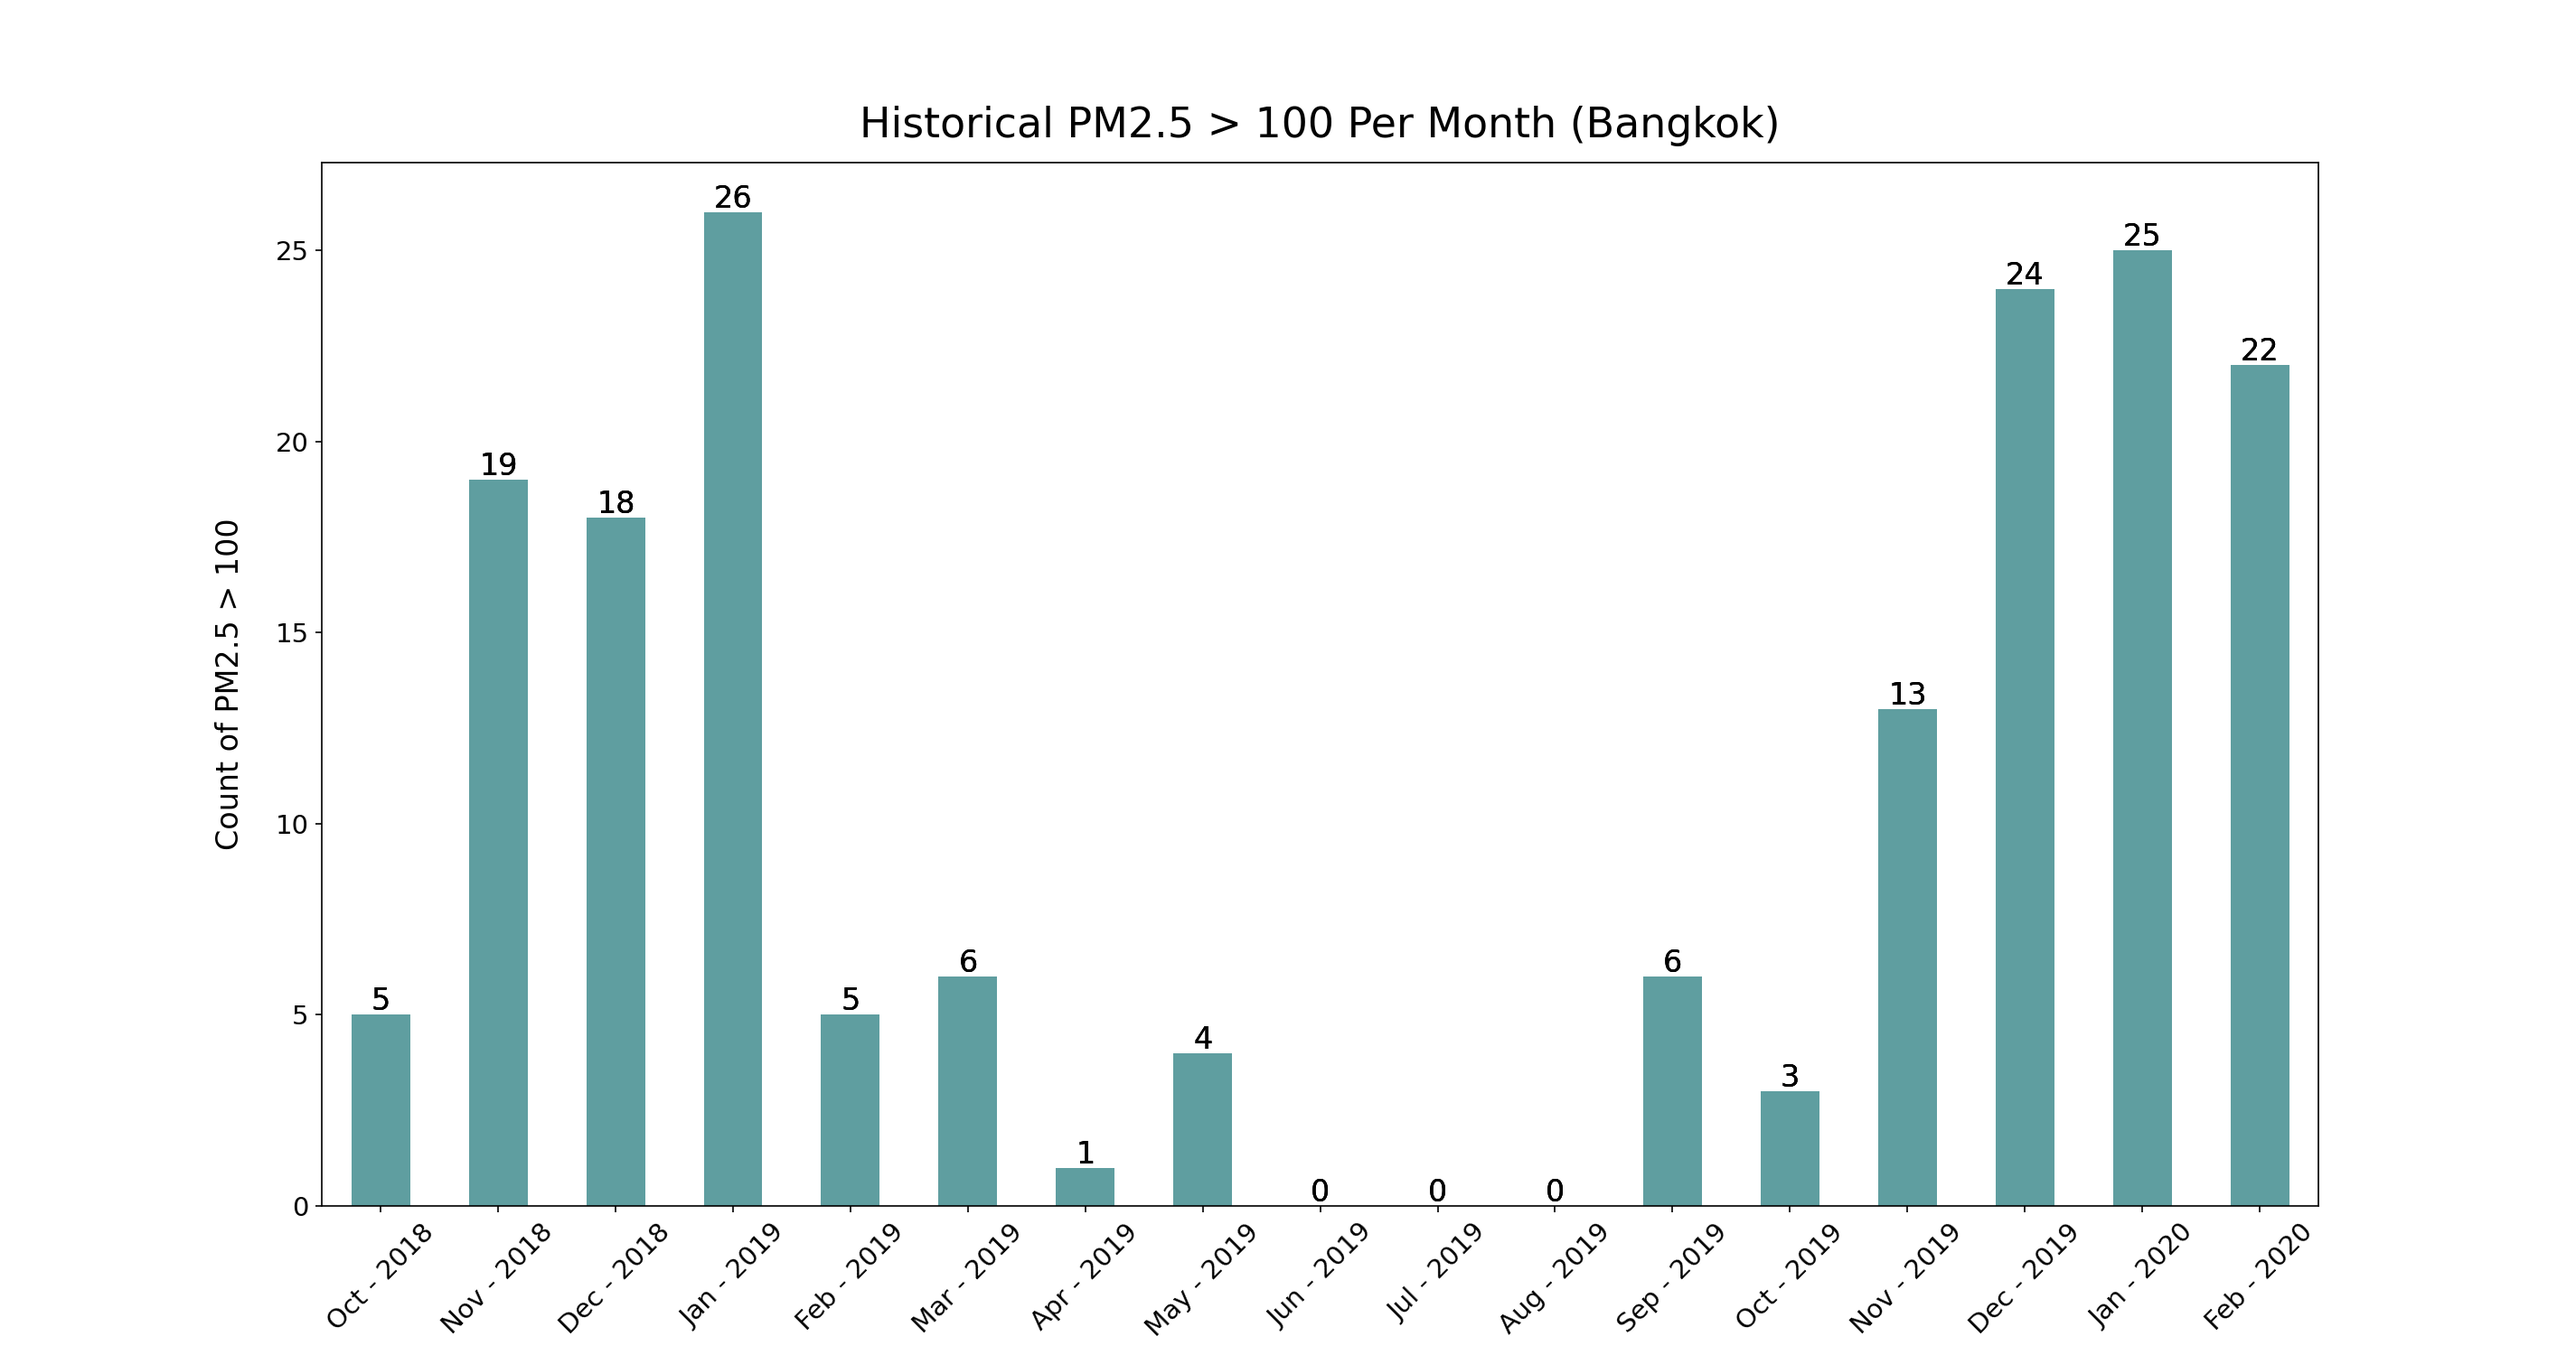
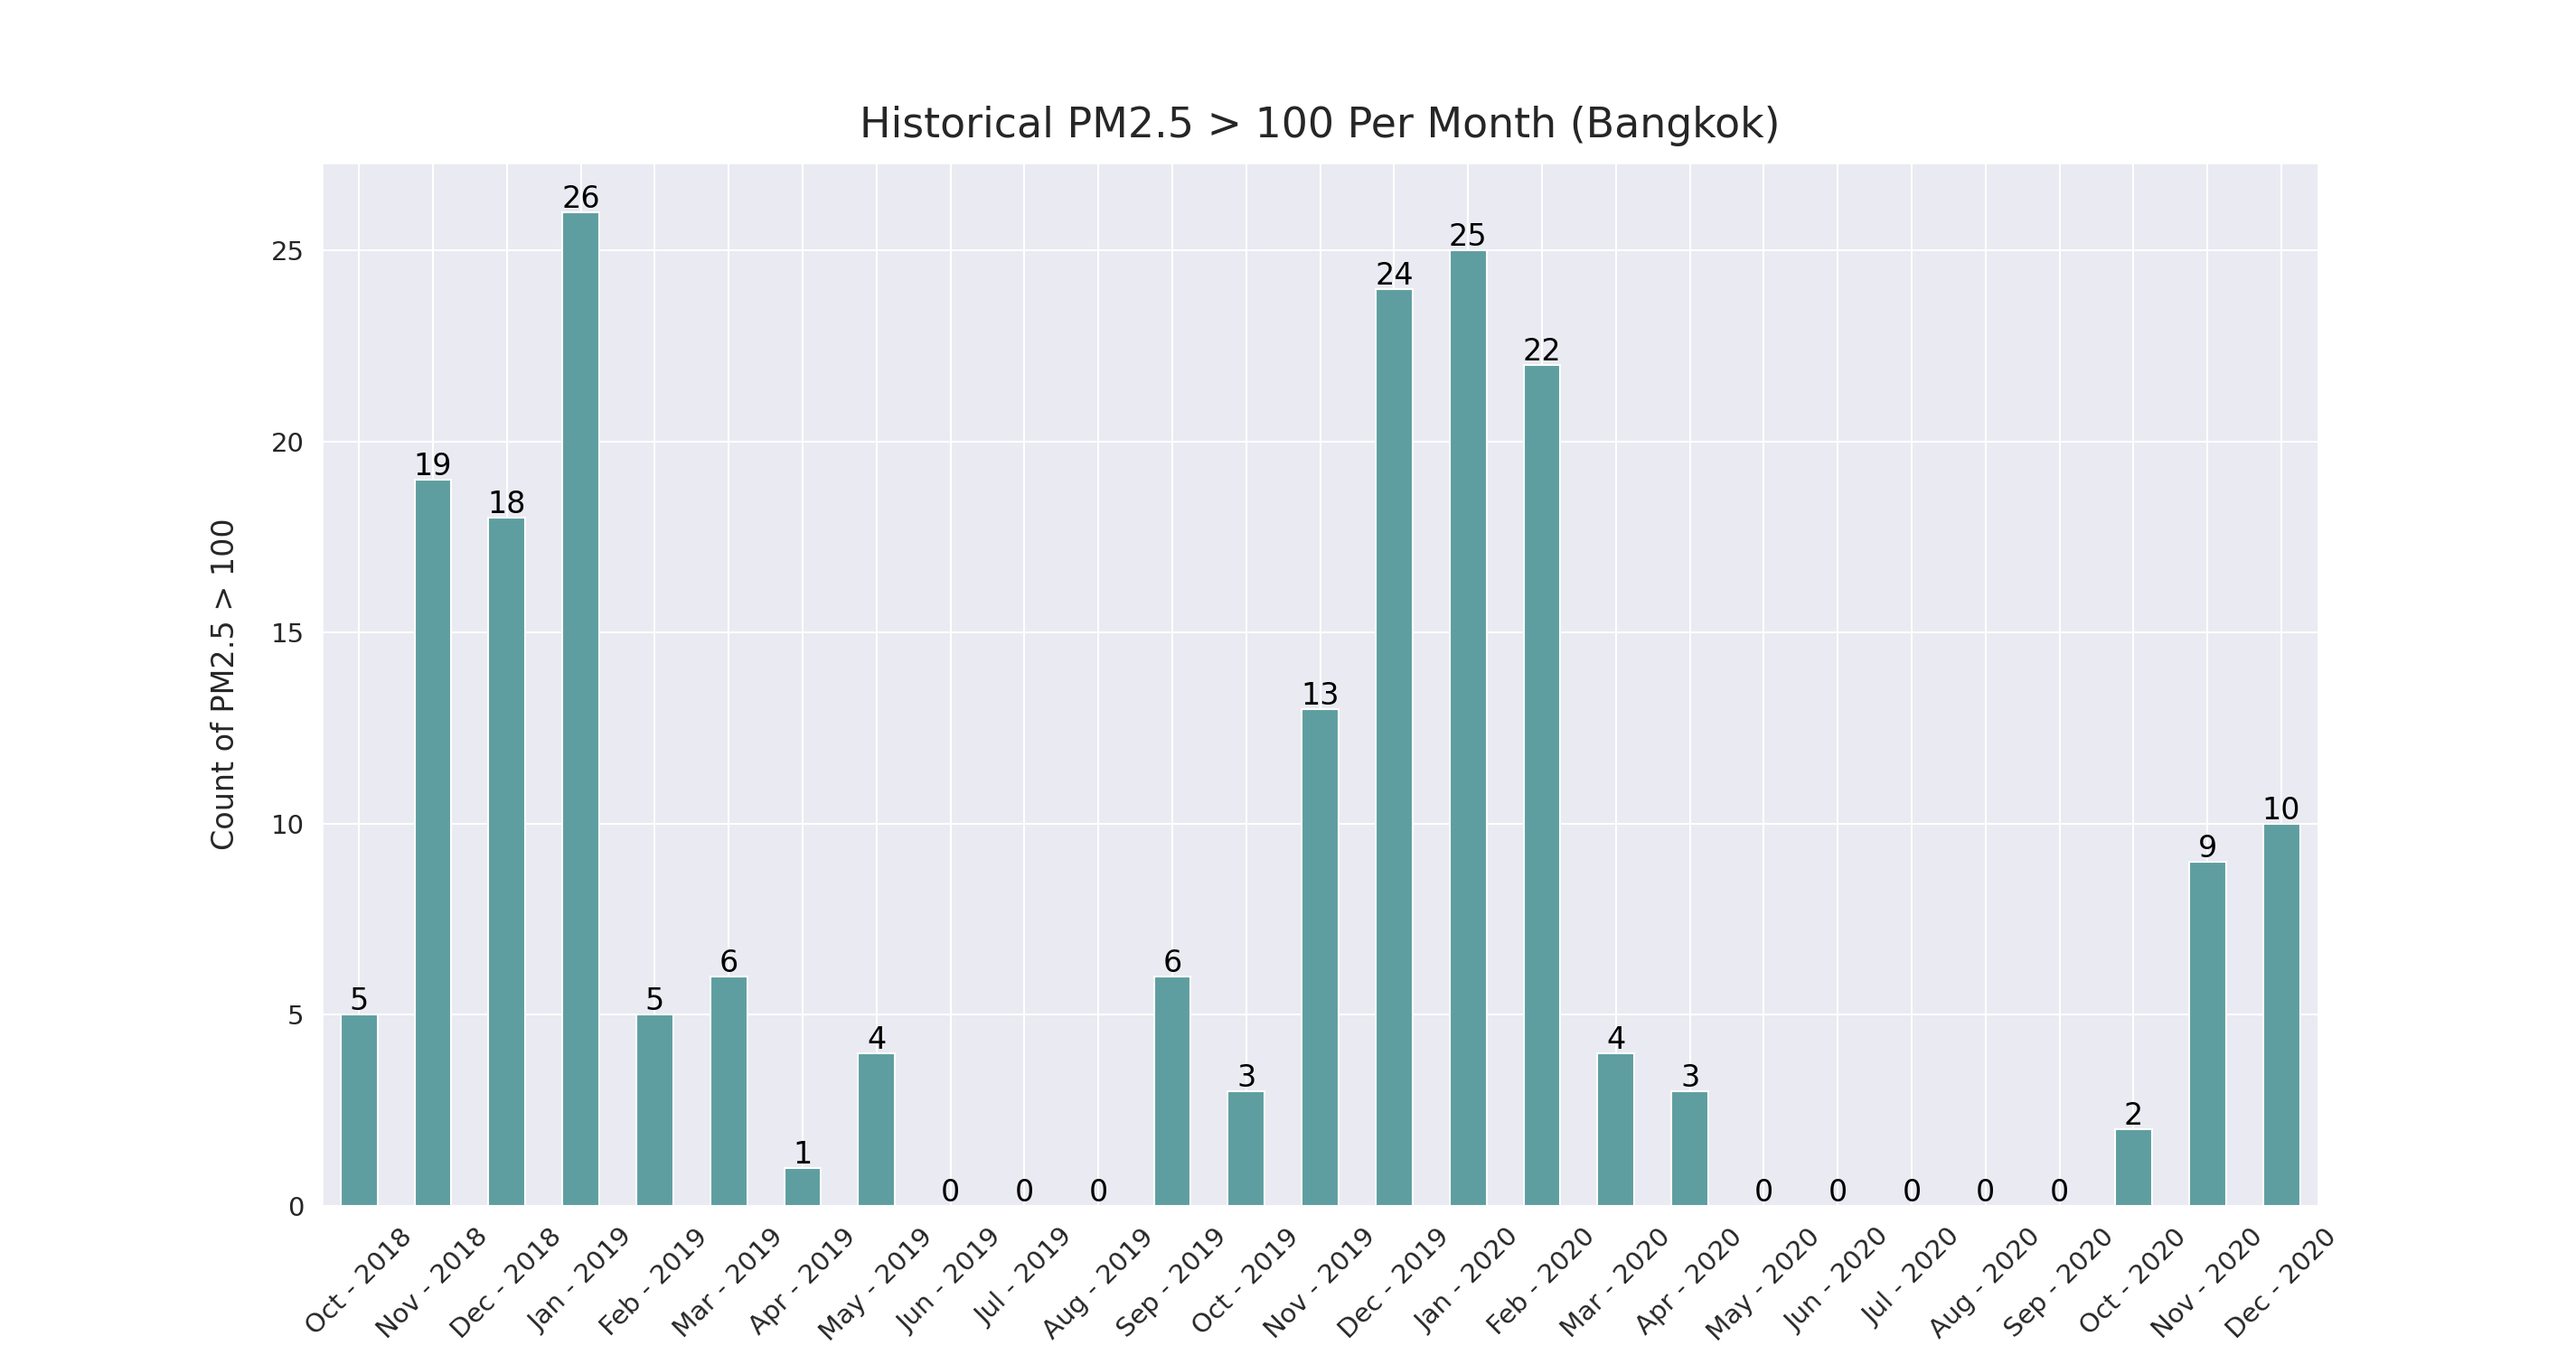
far dui tee

diff --git a/flask/plot.py b/flask/plot.py
@@ -1,5 +1,6 @@
 import pandas as pd
 import matplotlib.pyplot as plt
+import seaborn as sns; sns.set()
 import json
 
 
@@ -13,10 +14,9 @@ def toBarplot(data):
     df['date'] = pd.to_datetime(df.date)
     df['pm25'] = pd.to_numeric(df.pm25)
 
-
     df_2018 = df.loc[(df['date'].dt.year == 2018) & (df['date'].dt.month >= 10)]
     df_2019 = df.loc[(df['date'].dt.year == 2019)]
-    df_2020 = df.loc[(df['date'].dt.year == 2020) & (df['date'].dt.month < 3)]
+    df_2020 = df.loc[(df['date'].dt.year == 2020) & (df['date'].dt.month <= 12)]
     df = df_2018.append(df_2019.append(df_2020), ignore_index=True)
 
     df = df.groupby([df['date'].dt.year.rename('year'), df['date'].dt.month.rename('month')])['pm25'].apply(lambda x: (x>100).sum()).reset_index()
@@ -34,7 +34,6 @@ def toBarplot(data):
                     11: "Nov",
                     12: "Dec"}
     df['month'] = df['month'].map(month_to_short)
-
     df['year'] = df['year'].astype(str)
     df['month'] = df['month'].astype(str)
 
@@ -54,8 +53,9 @@ def toBarplot(data):
     figure.savefig('./'+'static/city/'+city+'_bar.png', dpi=150)
 
 def toHeatplot(data):
-    city = "Bangkok"
 
+    city = "Bangkok"
+    df = pd.DataFrame(data)
     df = df.loc[df['pm25']!=' ']
     df = df[['date','pm25']]
 
@@ -92,7 +92,7 @@ def toHeatplot(data):
 
     df_2018 = df.loc[(df['date'].dt.year == 2018) & (df['date'].dt.month >= 10)].reset_index(drop=True)
     df_2019 = df.loc[(df['date'].dt.year == 2019)].reset_index(drop=True)
-    df_2020 = df.loc[(df['date'].dt.year == 2020) & (df['date'].dt.month < 3)].reset_index(drop=True)
+    df_2020 = df.loc[(df['date'].dt.year == 2020) & (df['date'].dt.month <= 12)].reset_index(drop=True)
     df = df_2018.append(df_2019.append(df_2020), ignore_index=True)
     
     df = df.pivot(index='month_year', columns='day', values='pm25')
@@ -105,4 +105,4 @@ def toHeatplot(data):
     sns.set(font_scale = 2)
     ax = sns.heatmap(df,annot=True, fmt=".0f", cmap="YlOrRd", linewidths=0.05, vmin=0, vmax=200)
     figure = ax.get_figure()    
-    figure.savefig('./City_Heatmap/'+city+'.png', dpi=150)
+    figure.savefig('./static/city/'+city+'_heat.png', dpi=150)
